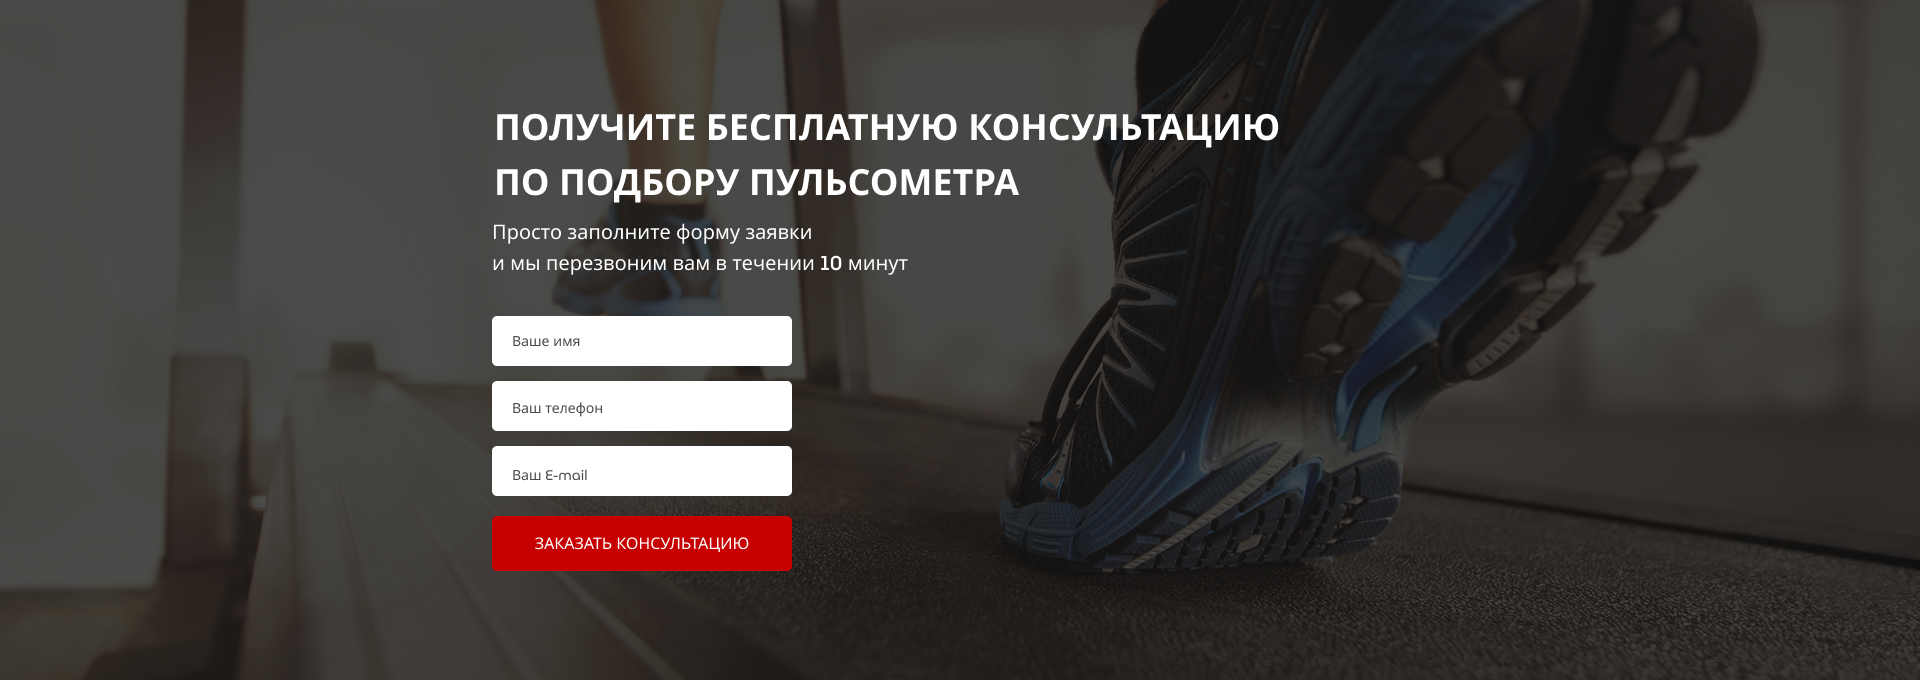
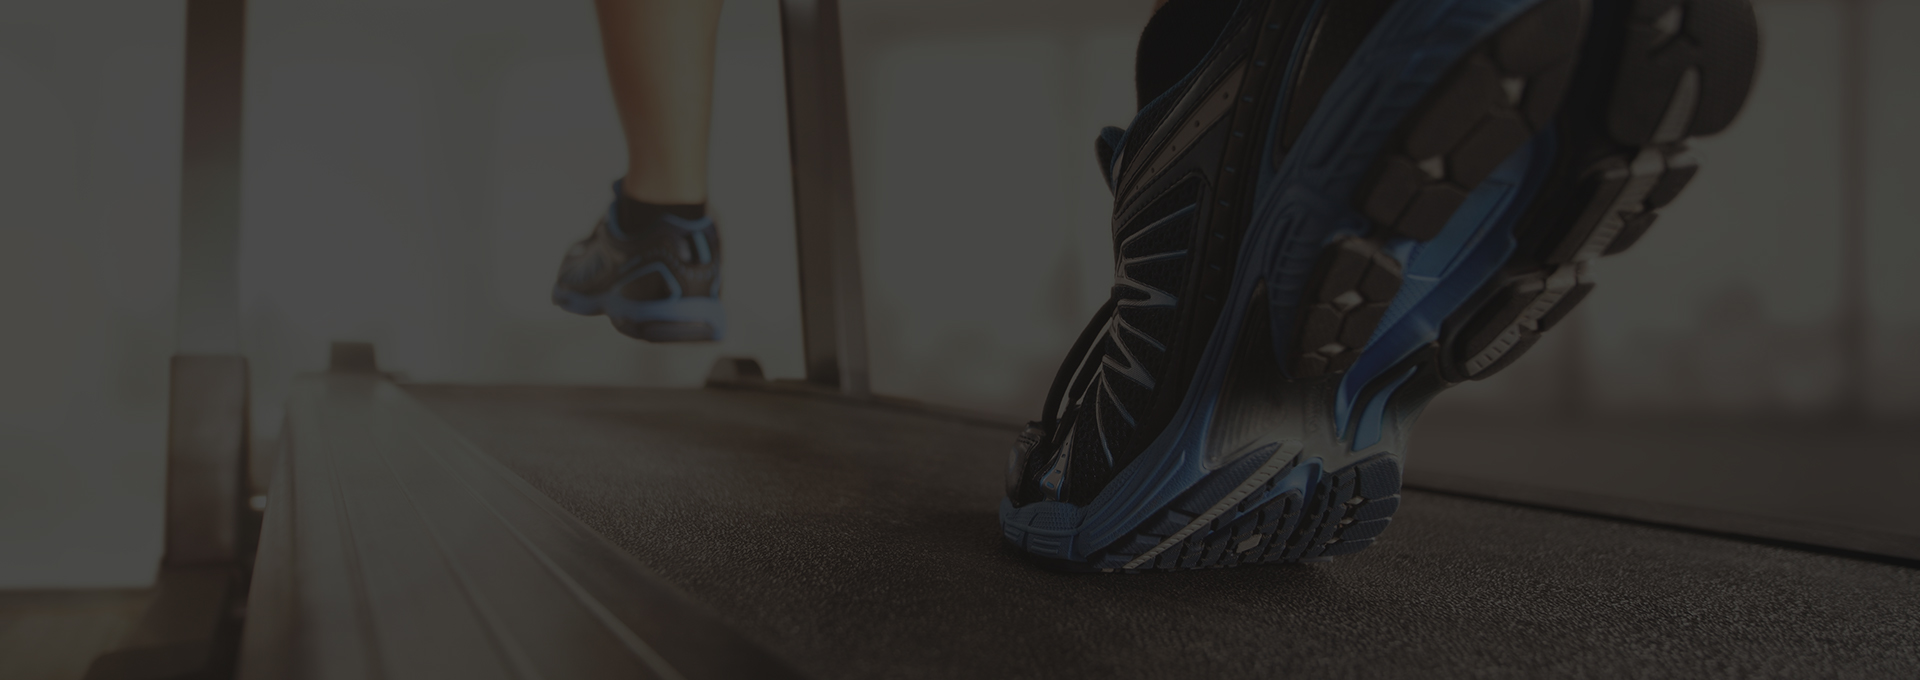
create block consult forms

diff --git a/src/css/style.min.css b/src/css/style.min.css
@@ -1,1 +1,1 @@
-*{font-family:MuseoModerno,sans-serif}.container{max-width:1140px}.promo{min-height:650px;background:url(../../img/bg_women.png) center center/cover no-repeat}.promo__wrapper{margin-top:166px;display:flex;flex-direction:column;align-items:flex-end}.promo__header{font-weight:700;font-size:42px;text-transform:uppercase;color:#fff}.promo__subheader{font-weight:500;font-size:24px;text-transform:uppercase;color:#fff}.promo__icons{margin-top:60px;display:flex;justify-content:space-between;width:425px}.promo__icon{width:116px;text-align:center;font-weight:500;font-size:14px;color:#fff}.promo__icon img{display:block;margin:0 auto;margin-bottom:20px}.promo__link{margin-top:6px;font-weight:500;font-size:16px;color:#fff}.promo__link a{text-transform:uppercase;text-decoration:underline;color:#fff}header{position:relative}.subheader{position:absolute;width:100%;display:flex;padding:21px 0 91px 0}.subheader__logo{width:251px}.subheader__official{font-weight:500;font-size:12px;color:#fff;text-align:center}.subheader__official span{margin-top:2px;font-size:18px;display:block}.subheader__phone{font-weight:700;font-size:18px;display:block;color:#fff}.subheader__phone:hover{text-decoration:none}.subheader__contacts{display:flex;flex-direction:column;align-items:flex-end}.button{width:153px;height:32px;background:#c70101;border-radius:5px;border:none;font-weight:500;font-size:12px;line-height:19px;text-transform:uppercase;color:#fff}.button_main{margin-top:65px;width:300px;height:50px;font-size:16px}.benefits{min-height:470px;background-color:#f6f6f6;padding:70px 0 64px 0}.benefits__block{margin-top:60px;display:flex;flex-direction:column;align-items:center;width:100%}.benefits__descr{margin-top:35px;width:269px}.benefits__title{font-weight:700;font-size:18px;text-align:center;color:#0d0d0d}.benefits__text{margin-top:20px;font-weight:300;font-size:14px;line-height:18px;text-align:center;color:#0d0d0d}.title{font-weight:700;font-size:30px;text-align:center;color:#0d0d0d}
+*{font-family:MuseoModerno,sans-serif}.container{max-width:1140px}.promo{min-height:650px;background:url(../../img/bg_women.png) center center/cover no-repeat}.promo__wrapper{margin-top:166px;display:flex;flex-direction:column;align-items:flex-end}.promo__header{font-weight:700;font-size:42px;text-transform:uppercase;color:#fff}.promo__subheader{font-weight:500;font-size:24px;text-transform:uppercase;color:#fff}.promo__icons{margin-top:60px;display:flex;justify-content:space-between;width:425px}.promo__icon{width:116px;text-align:center;font-weight:500;font-size:14px;color:#fff}.promo__icon img{display:block;margin:0 auto;margin-bottom:20px}.promo__link{margin-top:6px;font-weight:500;font-size:16px;color:#fff}.promo__link a{text-transform:uppercase;text-decoration:underline;color:#fff}header{position:relative}.subheader{position:absolute;width:100%;display:flex;padding:21px 0 91px 0}.subheader__logo{width:251px}.subheader__official{font-weight:500;font-size:12px;color:#fff;text-align:center}.subheader__official span{margin-top:2px;font-size:18px;display:block}.subheader__phone{font-weight:700;font-size:18px;display:block;color:#fff}.subheader__phone:hover{text-decoration:none}.subheader__contacts{display:flex;flex-direction:column;align-items:flex-end}.button{width:153px;height:32px;background:#c70101;border-radius:5px;border:none;font-weight:500;font-size:12px;line-height:19px;text-transform:uppercase;color:#fff}.button_main{margin-top:65px;width:300px;height:50px;font-size:16px}.button_submit{width:100%;height:58px;font-size:16px;color:#fff}.benefits{min-height:470px;background-color:#f6f6f6;padding:70px 0 64px 0}.benefits__block{margin-top:60px;display:flex;flex-direction:column;align-items:center;width:100%}.benefits__descr{margin-top:35px;width:269px}.benefits__title{font-weight:700;font-size:18px;text-align:center;color:#0d0d0d}.benefits__text{margin-top:20px;font-weight:300;font-size:14px;line-height:18px;text-align:center;color:#0d0d0d}.title{font-weight:700;font-size:30px;text-align:center;color:#0d0d0d;text-transform:uppercase}.title_left{font-size:36px;line-height:54px;color:#fff;text-align:left}.consultation{min-height:680px;padding:100px 0 108px 0;background:url(../../img/consult.png) center center/cover no-repeat}.consultation__descr{font-weight:500;font-size:20px;line-height:30px;color:#fff}.feed-form{display:flex;margin-top:36px;flex-direction:column;width:300px}.feed-form input{height:52px;border-radius:5px;background:#fff;margin-bottom:15px;border:none;padding:0 20px;font-weight:300;font-size:14px;color:#4b4b4b}.feed-form input:nth-child(3){margin-bottom:20px}

diff --git a/src/index.html b/src/index.html
@@ -113,5 +113,29 @@
             </div>
         </div>
     </div>
+
+    <div class="consultation">
+        <div class="container">
+            <div class="row">
+                <div class="col-md-12 offset-md-1">
+                    <h2 class="title title_left">
+                        Получите бесплатную консультацию<br>
+                        по подбору пульсометра 
+                    </h2>
+                    <div class="consultation__descr">
+                        Просто заполните форму заявки<br>
+                        и мы перезвоним вам в течении 10 минут
+                    </div>
+                    <form class="feed-form" action="#">
+                        <input name="name" required placeholder="Ваше имя" type="text">
+                        <input name="phone" required placeholder="Ваш телефон" type="number">
+                        <input name="email" required placeholder="Ваше E-mail" type="email">
+
+                        <button class="button button_submit">заказать кОНСУЛЬТАЦИЮ</button>
+                    </form>
+                </div>
+            </div>
+        </div>
+    </div>
 </body>
 </html>

diff --git a/src/sass/blocks/_titles.scss b/src/sass/blocks/_titles.scss
@@ -3,4 +3,11 @@
     font-size: 30px;
     text-align: center;
     color: #0D0D0D;
+    text-transform: uppercase;
+    &_left {
+        font-size: 36px;
+        line-height: 54px;
+        color: #FFFFFF;
+        text-align: left;
+    }
 }

diff --git a/src/sass/blocks/_buttons.scss b/src/sass/blocks/_buttons.scss
@@ -15,4 +15,10 @@
         height: 50px;
         font-size: 16px;
     }
+    &_submit {
+        width: 100%;
+        height: 58px;
+        font-size: 16px;
+        color: #FFFFFF;
+    }    
 }

diff --git a/src/sass/style.scss b/src/sass/style.scss
@@ -10,3 +10,5 @@
 @import 'blocks/buttons';
 @import 'blocks/benefits';
 @import 'blocks/titles';
+@import 'blocks/consultation';
+@import 'blocks/forms';
